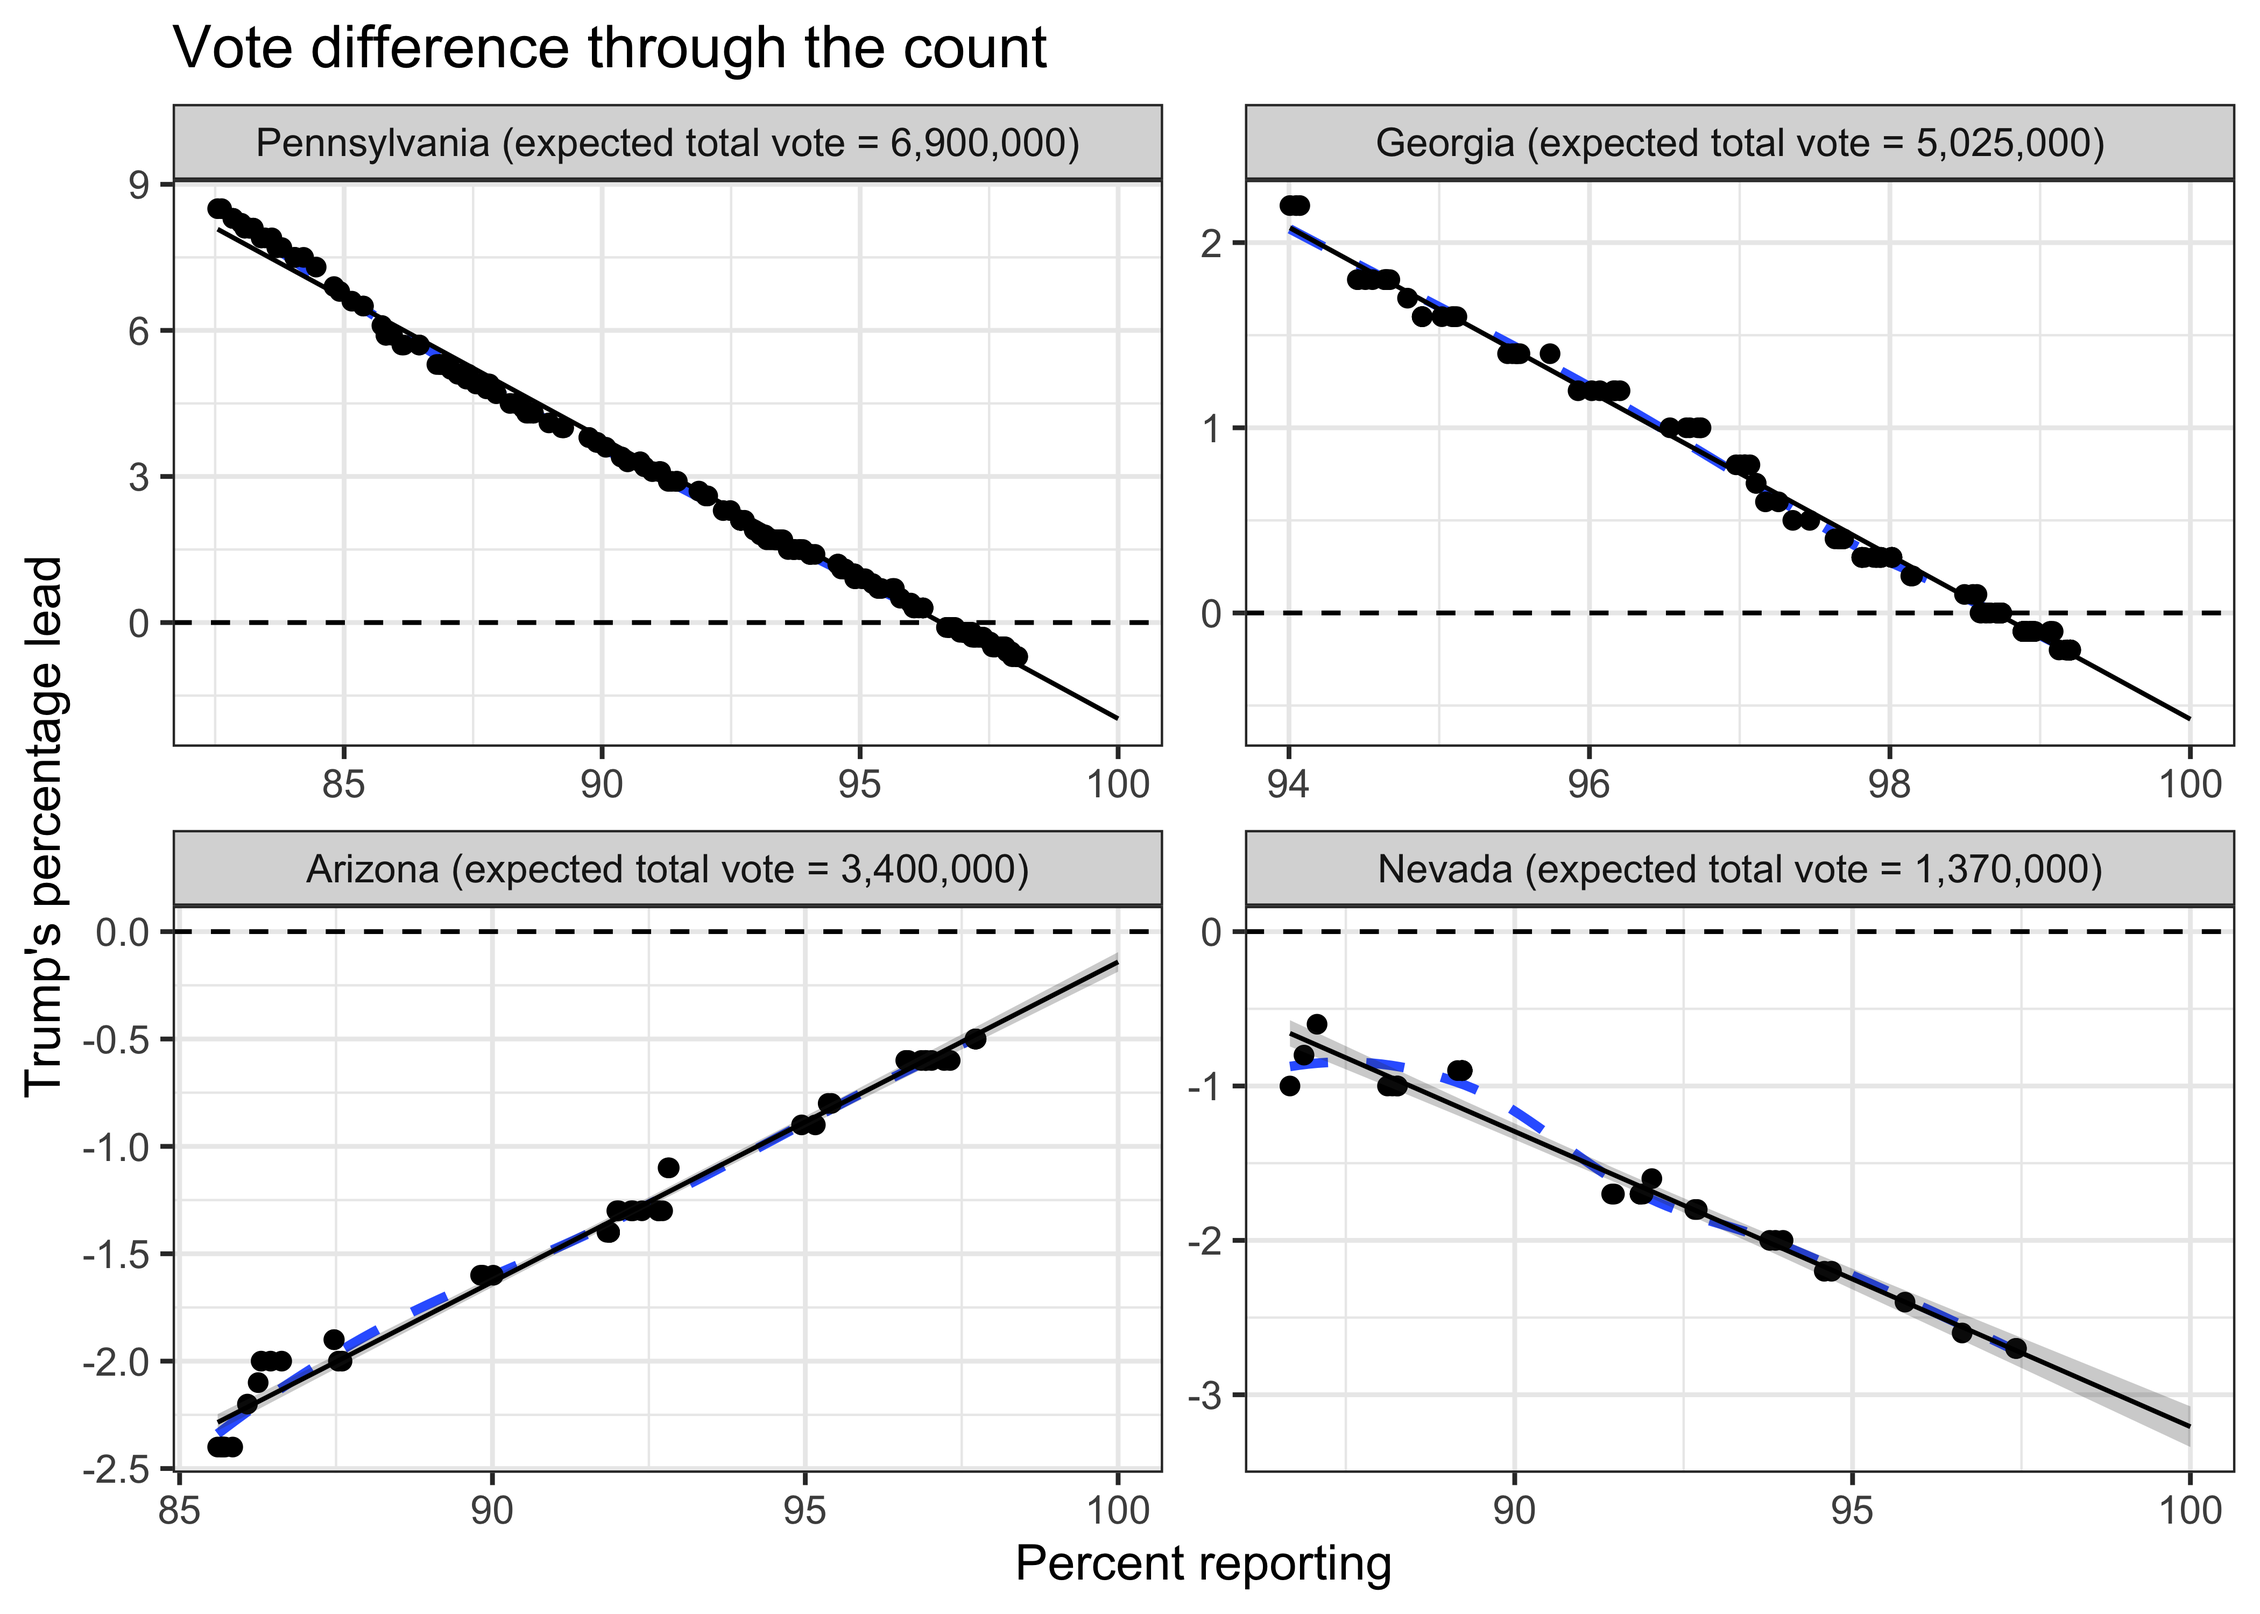
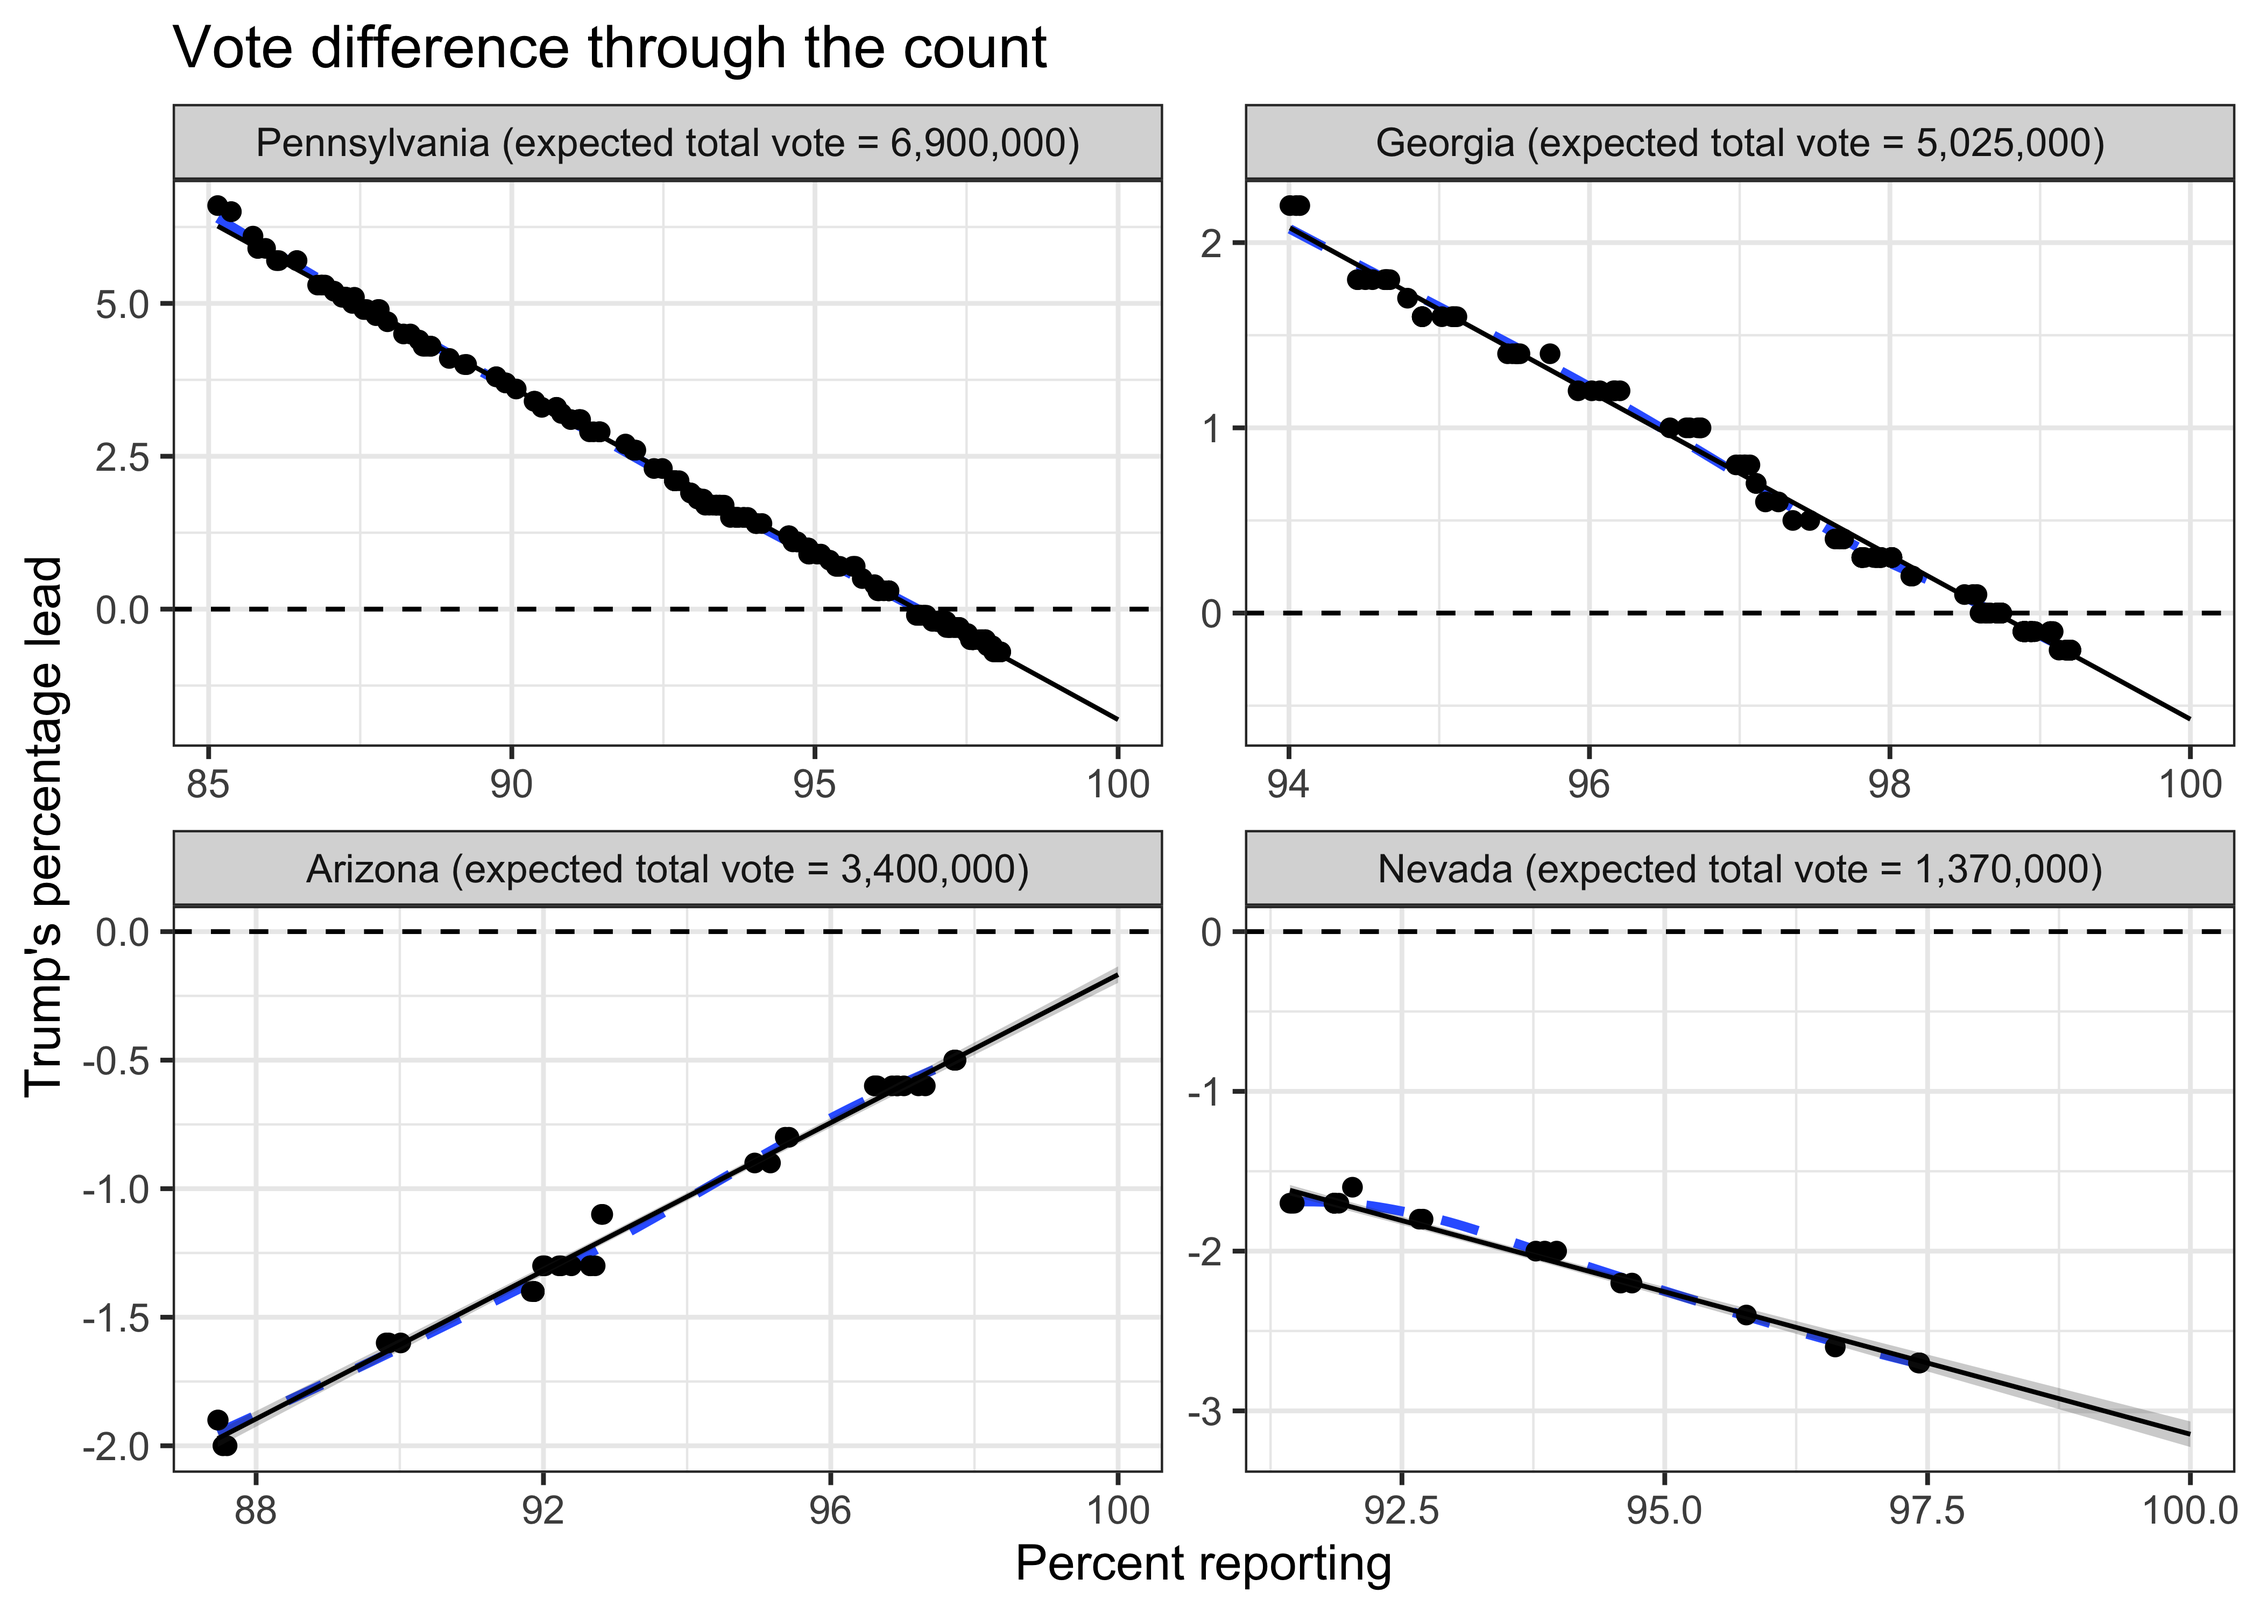
Changing range to part with constant linear slope for AZ and PA

diff --git a/election-count-updates.md b/election-count-updates.md
@@ -1,7 +1,7 @@
 Election Count Predictions
 ================
 Rafael Irizarry
-2020-11-09 13:29:41
+2020-11-09 14:28:13
 
 ## Load libraries
 
@@ -20,7 +20,7 @@ line and obtain standard errors using ordinary least squares.
 ``` r
 states <-c('pennsylvania', 'georgia', 'arizona', 'nevada')
 ## Define the percent at which the linear trend starts. Used EDA to determine.
-starts <- c(82.5, 94, 85, 85) 
+starts <- c(85, 94, 87, 90) 
 
 dat <- map_df(seq_along(states), function(i){
   
@@ -97,15 +97,15 @@ last_update <- dat %>%
   mutate(Biden_lead = format(-Trumps_lead, nsmall = 1)) %>%
   select(state, Biden_lead) %>%
   setNames(c("State", "Current Biden lead"))
-left_join(last_update, final_estimate, by = "State") %>% knitr::kable(align = c("l","r","r","r"))
+left_join(last_update, final_estimate, by = "State") %>% knitr::kable(align = c("l","r","r"))
 ```
 
 | State        | Current Biden lead | Final Estiamte |
 | :----------- | -----------------: | -------------: |
-| Arizona      |                0.5 |            0.1 |
+| Arizona      |                0.5 |            0.2 |
 | Georgia      |                0.2 |            0.6 |
-| Nevada       |                2.7 |            3.2 |
-| Pennsylvania |                0.7 |            2.0 |
+| Nevada       |                2.7 |            3.1 |
+| Pennsylvania |                0.7 |            1.8 |
 
 ## The Math
 
@@ -116,9 +116,9 @@ votes went for Trump. Let’s call the difference
 *b* = election day votes for Trump - election day votes for Biden
 
 However, in the case of Pennsylvania and Georgia, mail-in votes and some
-votes from large metropolitan areas, Philadelphia and Atlanta, were note
-counted by the end of election night. These votes went for Biden by a
-wide margin. Let’s call this difference
+votes from large metropolitan areas, Philadelphia and Atlanta for
+example, were not counted by the end of election night. These votes went
+for Biden by a wide margin. Let’s call this difference
 
 *m* = mail in and late metro area votes for Trump - mail in and late
 metro area votes for Biden
@@ -167,5 +167,5 @@ popular, *m* was not negative, in fact it was slightly positive.
 
   - Rick Paik Schoenberg, for alerting me to the linear pattern.
 
-  - Andy Jones \[@andy\_l\_jones\](<https://twitter.com/andy_l_jones>),
-    for pointing out the API.
+  - [Andy Jones](https://twitter.com/andy_l_jones), for pointing out the
+    API.
